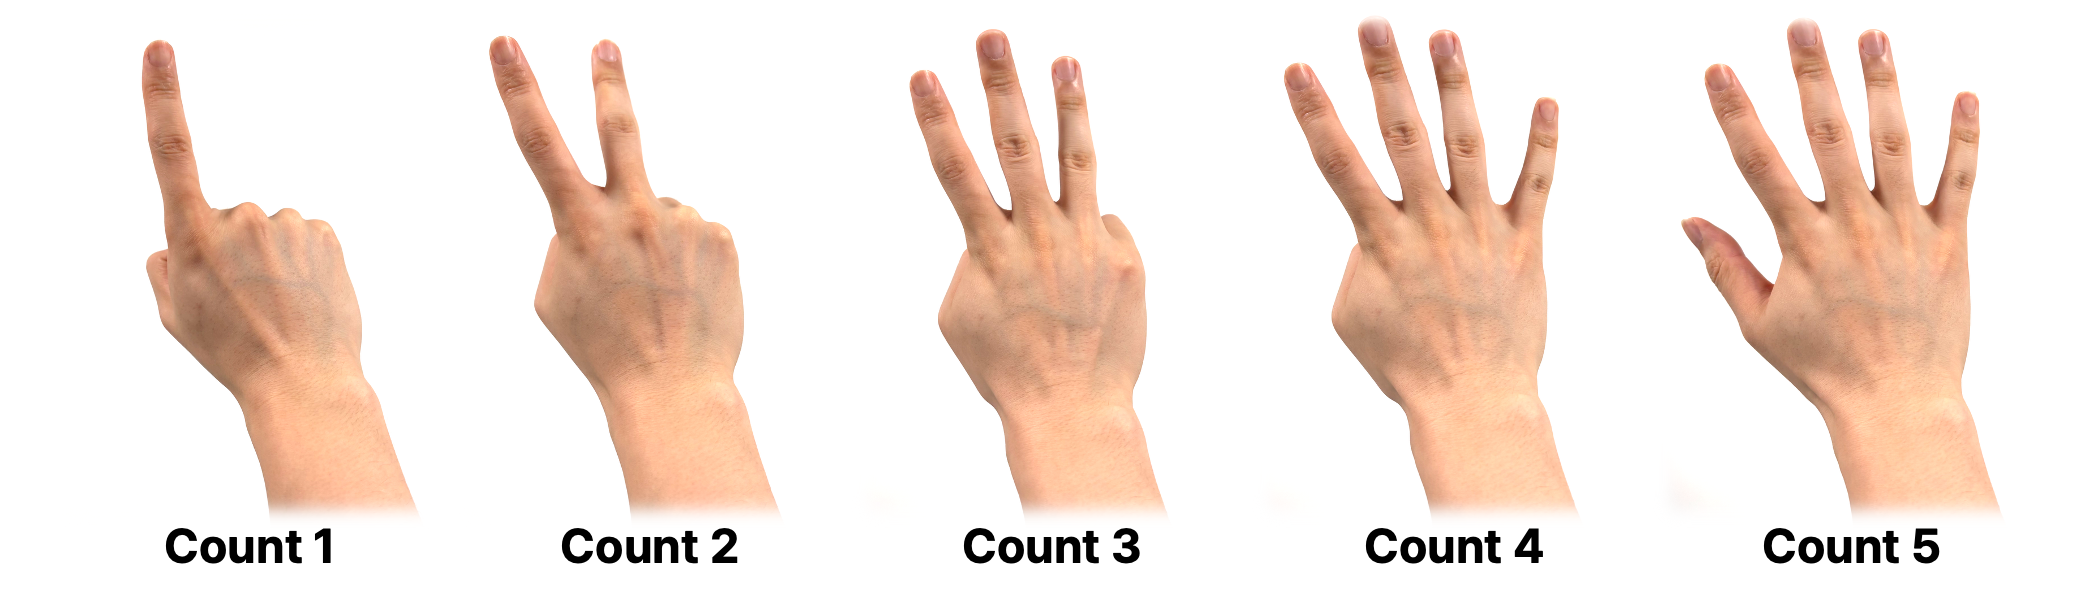
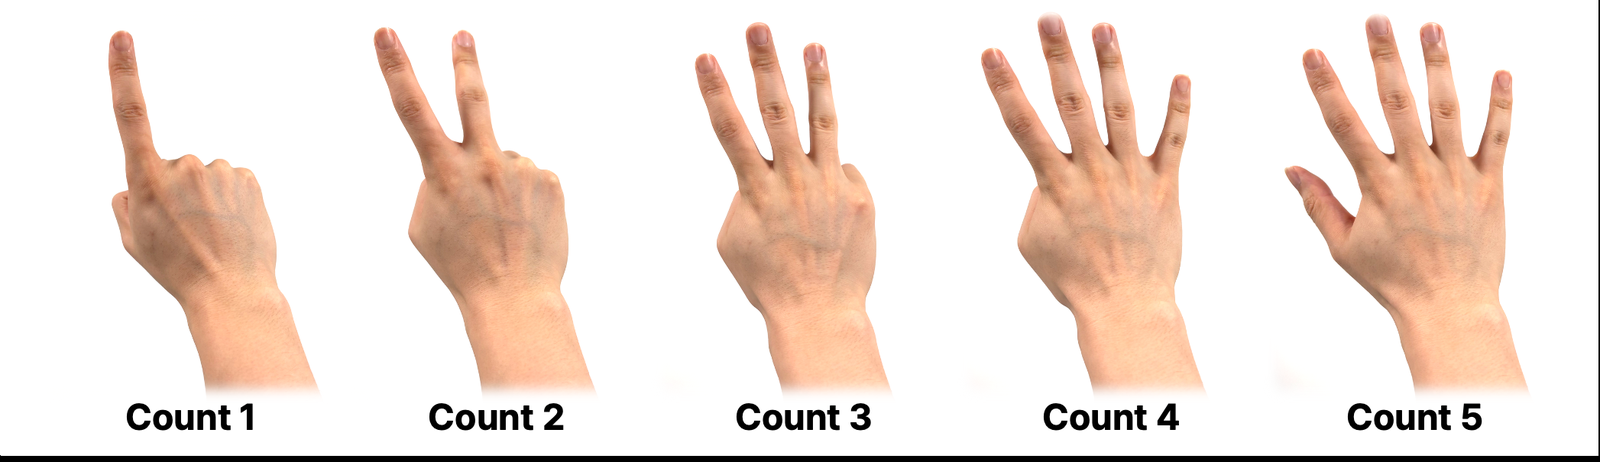
docs: add usage examples and shrink the figures

Changed region(s): [[0.0, 0.9697, 1.0, 1.0]]

diff --git a/README.md b/README.md
@@ -65,3 +65,41 @@ Held-out subject, one labelled window per gesture, macro-F1 over 636 enrollment 
 | + masked-electrode reconstruction and channel rotation | **76.00** | **49.33** | **88.12** |
 
 The full benchmark, including twelve other adaptation methods, is in the paper.
+
+## Usage
+
+Load one subject. Filtering and decimation are applied here, not in the release:
+
+```python
+from src.io import load_subject
+
+emg, imu, label, session = load_subject(1)   # (N, 150, 9), (N, 150, 6), (N,), (N,)
+```
+
+Reproduce the benchmark from the released encoders, one per held-out subject:
+
+```shell
+for S in $(seq 1 11); do
+  python scripts/extract_features.py --checkpoint checkpoints/ours/S$(printf %02d $S).ckpt \
+    --target $S --out runs/ours
+done
+python scripts/run_benchmark.py --features runs/ours --out runs/benchmark.csv
+```
+
+Train an encoder instead of downloading one. `--config configs/encoder_baseline.yaml` gives the row
+without the interventions; the two files differ only in their `interventions` block:
+
+```shell
+python scripts/train_encoder.py --config configs/encoder_ours.yaml --target 1
+```
+
+Output goes to `runs/<hash of the config>/`, so two configurations cannot share a feature cache.
+
+Redraw the signal panels used in the paper figures:
+
+```shell
+python scripts/make_figures.py
+```
+
+See [docs/reproduce.md](docs/reproduce.md) for the ablation and [docs/protocol.md](docs/protocol.md)
+for the evaluation protocol.
